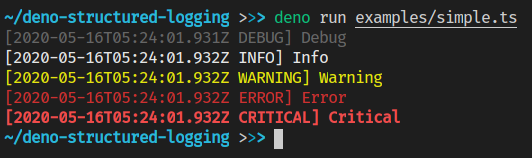
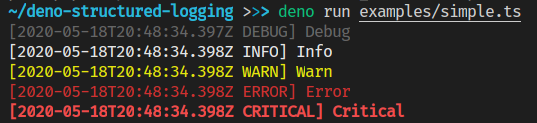
Update readme

diff --git a/README.md b/README.md
@@ -1,15 +1,16 @@
-# Deno Structured Logging
+# Deno Structured Logging (currently unstable)
 
 A better logger for deno, with support for structured logging.
 
 ## Simple Example
 ```ts
-import { createLogger } from "https://denolib.com/yamboy1/deno-structured-logging/mod.ts";
+import { createLogger } from "https://deno.land/x/deno_structured_logging/mod.ts";
+
 const logger = createLogger();
 
 logger.debug("Debug");
 logger.info("Info");
-logger.warning("Warning");
+logger.warn("Warn");
 logger.error("Error");
 logger.critical("Critical");
 ```
@@ -17,20 +18,23 @@ logger.critical("Critical");
 
 ## More complex example
 ```ts
-import {
-  consoleSink,
-  createLogger,
-  LogLevel,
-} from "https://denolib.com/yamboy1/deno-structured-logging/mod.ts";
+import { createLogger, LogLevel } from "https://deno.land/x/deno_structured_logging/mod.ts";
+import { consoleSink, fileSink } from "https://deno.land/x/deno_structured_logging/sinks/mod.ts"
 
 const logger = createLogger({
   minimumLevel: LogLevel.INFO,
-  sinks: [consoleSink] // This is the default, but shown here for completeness
- });
+  sinks: [consoleSink(), fileSink("test.log")],
+});
 
 logger.debug("Debug"); // Ignored due to the minimumLevel
 logger.info("This is {type} logging in {program}", "Structured", "Deno");
-logger.warning("Numbers work: {number} as well as arrays: {arr}", 1, ["a","b","c"]);
+
+// It doesn't matter what these variables are called,
+const num = 1;
+const array = ["a", "b", "c"];
+
+logger.warn("Numbers work: {number} as well as arrays: {arr}", num, array);
+
 ```
 ![Complex Example](./assets/complex.png)
 
@@ -48,5 +52,6 @@ A sink is an output for DSL. For example the console sink prints to the console,
 
 Available sinks:
 
-- Console (with colors)
-- ~~File~~ coming soon™
+- Console Sink (with colors)
+- File Sink
+- More coming soon
